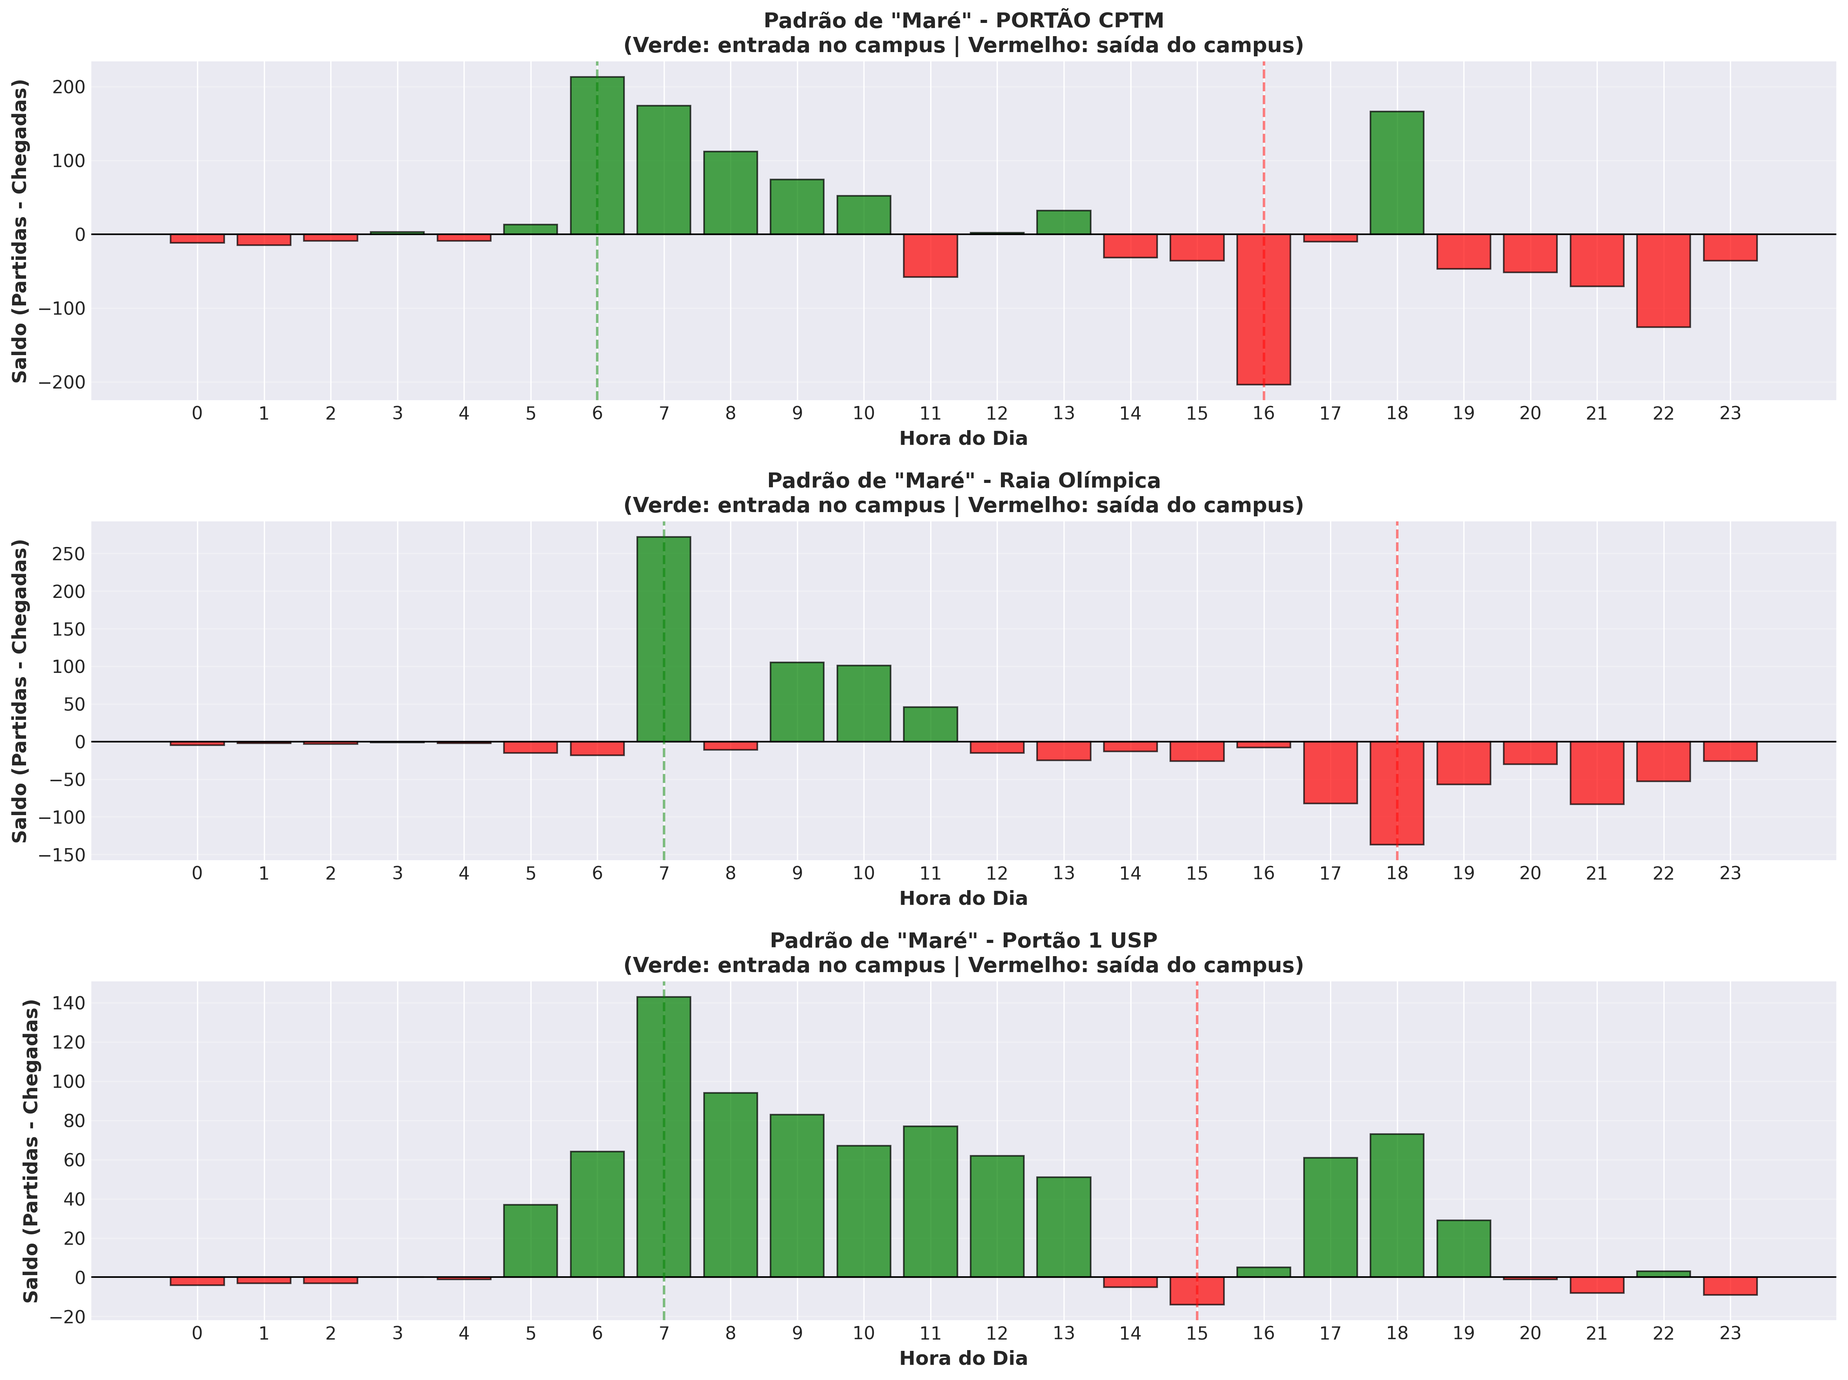
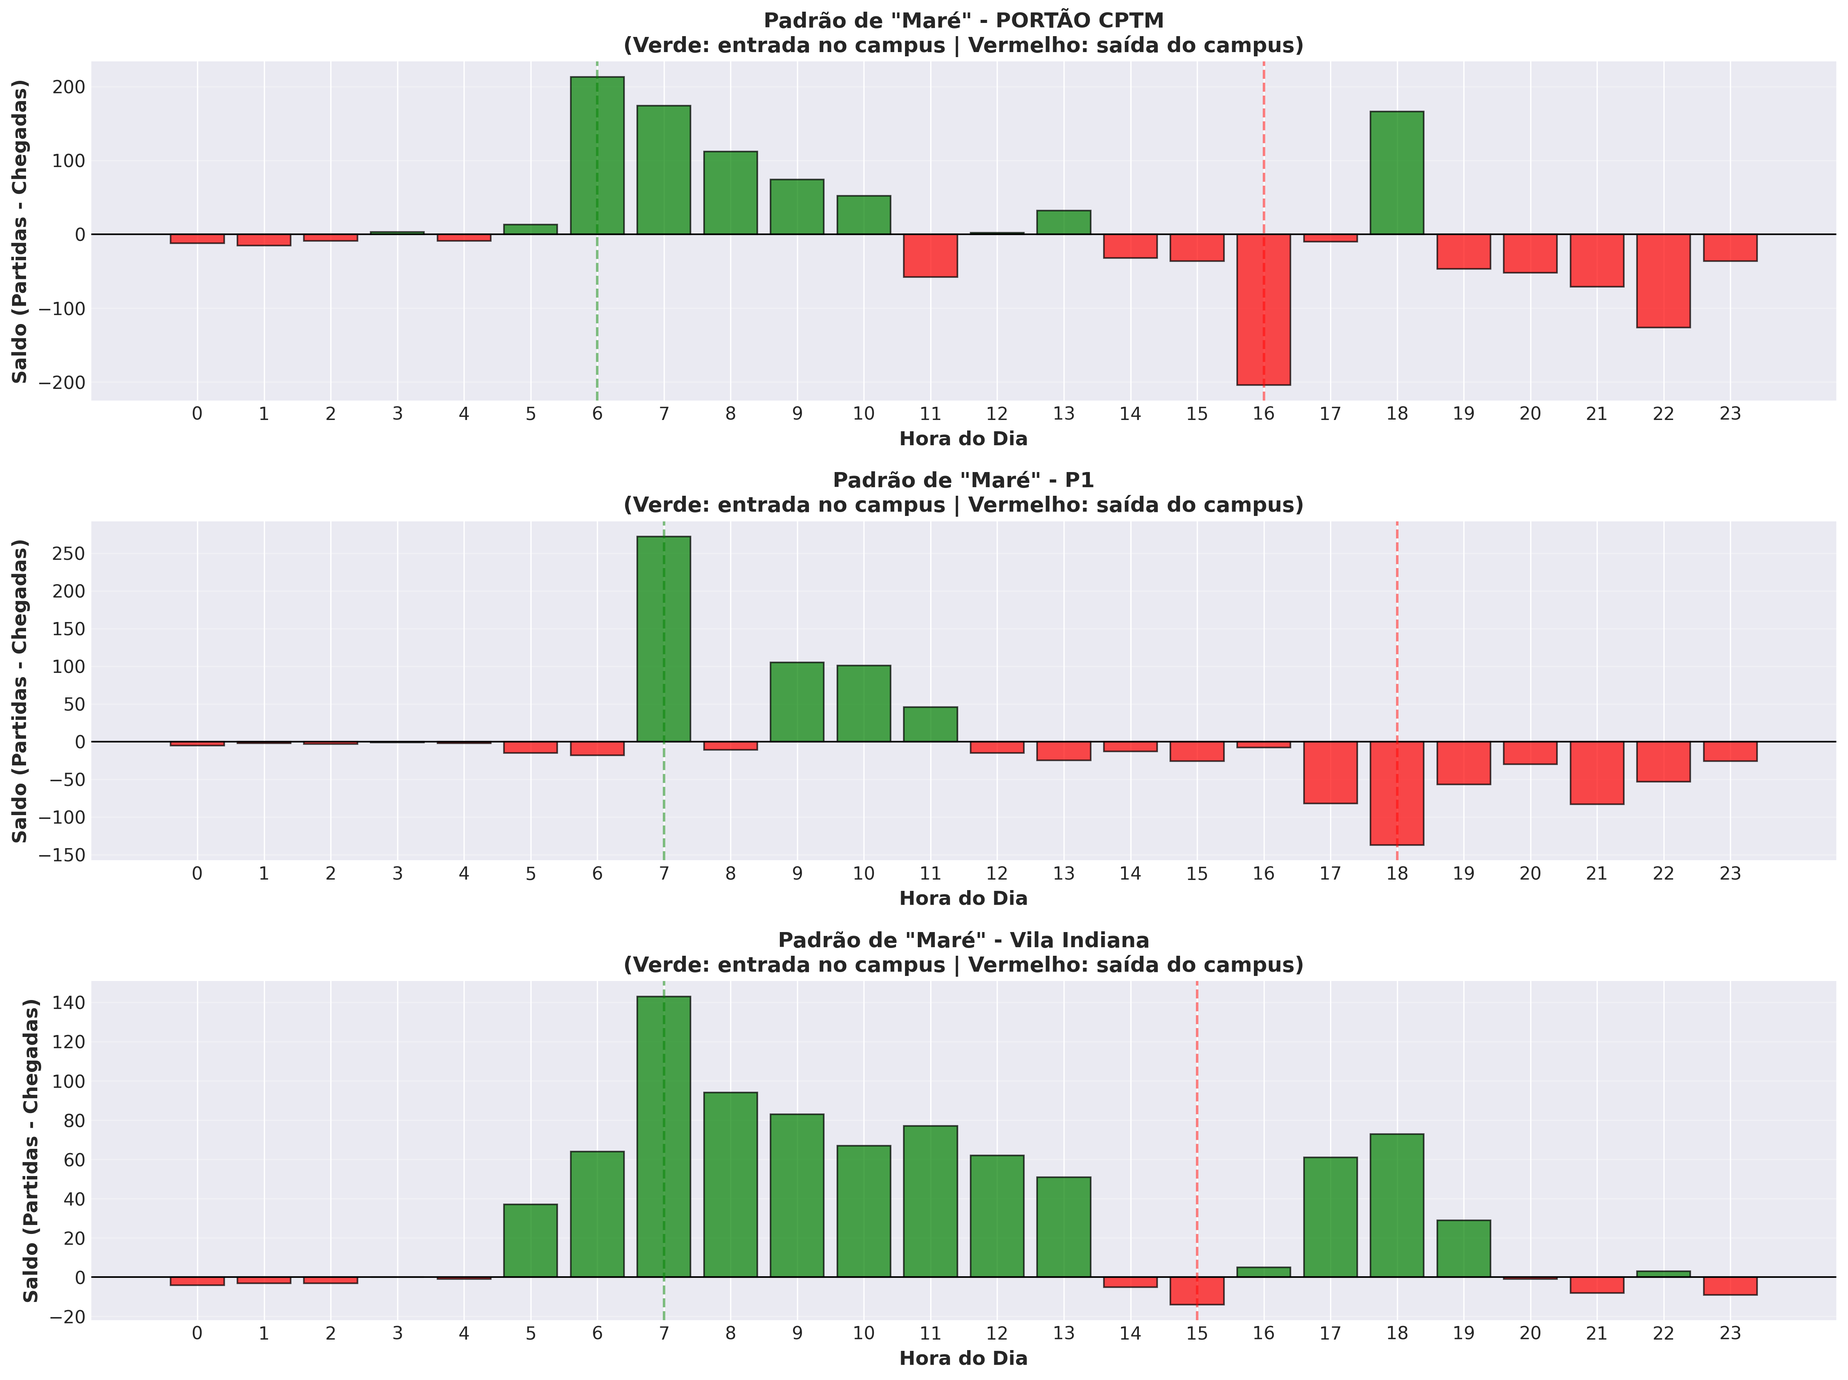
refactor: update station filtering to use internal PKs for USP stations and add configuration file

Changed region(s): [[0.4045, 0.6562, 0.6224, 0.6875], [0.4045, 0.3438, 0.6224, 0.375]]

diff --git a/analises_monografia/11_analise_campus_completa.py b/analises_monografia/11_analise_campus_completa.py
@@ -45,38 +45,33 @@ plt.rcParams['font.size'] = 11
 OUTPUT_DIR = '/home/gbiel/gabriel/usp/tcc/bikeProject-backEnd/analises_monografia/resultados'
 os.makedirs(OUTPUT_DIR, exist_ok=True)
 
-# IDs REAIS das 17 estações USP DENTRO do perímetro do campus (CORRETO Nov 2025)
-# Critério: estações geograficamente DENTRO ou no LIMITE do campus USP
-# EXCLUI: CPTM Cidade Universitária, Metrô Butantã, Estacao Tiradentes (FORA do campus)
+# PKs internos das 17 estações USP (CORRETO - Nov 2025)
+# EXCLUI: 244-Metrô Butantã e 255-Tiradentes (fora do campus)
 ESTACOES_USP = [
-    # Dentro do perímetro central (12 estações)
     56826,  # 242 - Letras
     56659,  # 243 - Bancos/Reitoria
+    48848,  # 245 - P1
+    38637,  # 246 - Portão CPTM
+    37915,  # 247 - CEPE
     48852,  # 248 - Biblioteca Brasiliana
     38476,  # 249 - Bandejão Central
     56642,  # 250 - Bandejão Química
-    38582,  # 251 - IME/FAU
+    38582,  # 251 - FAU
     56762,  # 252 - Psicologia
-    38425,  # 253 - Biênio Poli USP
+    38425,  # 253 - Pedalusp Biênio
     56965,  # 254 - Terminal de Ônibus USP
     56713,  # 256 - Bandejão Prefeitura
-    56640,  # 258 - Odontologia
-    44878,  # 259 - Portão 1 USP
-    # No limite / instalações USP (5 estações)
-    37915,  # 247 - CEPE
-    48848,  # 245 - Raia Olímpica USP
-    38637,  # 246 - PORTÃO CPTM
     56654,  # 257 - Hospital Universitário
-    42323,  # 260 - Harmonia
+    56640,  # 258 - Odontologia
+    44878,  # 259 - Vila Indiana
+    42323,  # 260 - P3
 ]
 
 # Estações-portal (pontos de entrada/saída no LIMITE do campus)
-# Nota: Metrô Butantã e CPTM Cidade Universitária estão FORA do campus,
-# mas são analisados como destinos de viagens que saem da USP
 ESTACOES_PORTAL = {
-    38637: 'PORTÃO CPTM',      # 246 - No limite do campus
-    48848: 'Raia Olímpica',    # 245 - Sul do campus
-    44878: 'Portão 1 USP',     # 259 - Norte do campus
+    38637: 'PORTÃO CPTM',      # 246
+    48848: 'P1',               # 245
+    44878: 'Vila Indiana',     # 259
 }
 
 ESTACOES_BANDEJAO = {
@@ -467,8 +462,9 @@ def main():
     """Executa todas as análises focadas no campus."""
     print("\n" + "🚴"*40)
     print("\n   ANÁLISES FOCADAS NO CAMPUS USP")
-    print("   Dataset: 92.737 viagens (origem OU destino na USP)")
-    print("   Viagens internas: 63.598 (origem E destino na USP)")
+    print("   Dataset: 59.921 viagens (origem OU destino na USP)")
+    print("   Viagens internas: 34.126 (origem E destino na USP)")
+    print("   Estações: 17 (IDs 242,243,245-260 exceto 244,255)")
     print("\n" + "🚴"*40)
     
     inicio = datetime.now()

diff --git a/analises_monografia/01_verificar_dados.py b/analises_monografia/01_verificar_dados.py
@@ -72,13 +72,11 @@ def analisar_periodo_temporal():
 
 def identificar_estacoes_usp():
     """Identifica e analisa estações do campus USP"""
-    print_section("ESTAÇÕES DO CAMPUS USP (IDs 242-260)")
+    print_section("ESTAÇÕES DO CAMPUS USP (17 estações)")
     
-    # Buscar estações USP
-    estacoes_usp = Station.objects.filter(
-        station_id__gte=242,
-        station_id__lte=260
-    ).order_by('station_id')
+    # 17 estacoes USP (PKs internos)
+    usp_pks = [56826, 56659, 48848, 38637, 37915, 48852, 38476, 56642, 38582, 56762, 38425, 56965, 56713, 56654, 56640, 44878, 42323]
+    estacoes_usp = Station.objects.filter(id__in=usp_pks).order_by('station_id')
     
     total_estacoes_usp = estacoes_usp.count()
     print(f"\n📍 Total de estações USP: {total_estacoes_usp}")
@@ -103,11 +101,9 @@ def analisar_viagens_usp():
     """Analisa viagens que envolvem o campus USP"""
     print_section("ANÁLISE DE VIAGENS USP")
     
-    # Buscar IDs das estações USP
-    estacoes_usp = Station.objects.filter(
-        station_id__gte=242,
-        station_id__lte=260
-    )
+    # 17 estacoes USP (PKs internos)
+    usp_pks = [56826, 56659, 48848, 38637, 37915, 48852, 38476, 56642, 38582, 56762, 38425, 56965, 56713, 56654, 56640, 44878, 42323]
+    estacoes_usp = Station.objects.filter(id__in=usp_pks)
     
     # Viagens que começam OU terminam na USP
     viagens_usp = Trip.objects.filter(
@@ -175,7 +171,10 @@ def gerar_resumo_executivo():
     print_section("RESUMO EXECUTIVO")
     
     total_viagens = Trip.objects.count()
-    estacoes_usp = Station.objects.filter(station_id__gte=242, station_id__lte=260)
+    
+    # 17 estacoes USP (PKs internos)
+    usp_pks = [56826, 56659, 48848, 38637, 37915, 48852, 38476, 56642, 38582, 56762, 38425, 56965, 56713, 56654, 56640, 44878, 42323]
+    estacoes_usp = Station.objects.filter(id__in=usp_pks)
     
     viagens_usp = Trip.objects.filter(
         initial_station__in=estacoes_usp
@@ -211,10 +210,9 @@ def salvar_estatisticas_csv():
     os.makedirs(output_dir, exist_ok=True)
     
     # 1. Estatísticas por estação USP
-    estacoes_usp = Station.objects.filter(
-        station_id__gte=242,
-        station_id__lte=260
-    ).order_by('station_id')
+    # 17 estacoes USP (PKs internos)
+    usp_pks = [56826, 56659, 48848, 38637, 37915, 48852, 38476, 56642, 38582, 56762, 38425, 56965, 56713, 56654, 56640, 44878, 42323]
+    estacoes_usp = Station.objects.filter(id__in=usp_pks).order_by('station_id')
     
     dados_estacoes = []
     for estacao in estacoes_usp:

diff --git a/analises_monografia/04_analise_fluxos.py b/analises_monografia/04_analise_fluxos.py
@@ -50,7 +50,9 @@ def analisar_fluxos_principais():
     print("  ANÁLISE DE FLUXOS - ROTAS MAIS FREQUENTES")
     print("="*80)
     
-    estacoes_usp = Station.objects.filter(station_id__gte=242, station_id__lte=260)
+    # 17 estacoes USP (PKs internos)
+    usp_pks = [56826, 56659, 48848, 38637, 37915, 48852, 38476, 56642, 38582, 56762, 38425, 56965, 56713, 56654, 56640, 44878, 42323]
+    estacoes_usp = Station.objects.filter(id__in=usp_pks)
     
     # Contar viagens por par origem-destino
     fluxos_dict = defaultdict(int)
@@ -145,7 +147,9 @@ def fluxos_internos_externos():
     print("  FLUXOS INTERNOS vs EXTERNOS")
     print("="*80)
     
-    estacoes_usp = Station.objects.filter(station_id__gte=242, station_id__lte=260)
+    # 17 estacoes USP (PKs internos)
+    usp_pks = [56826, 56659, 48848, 38637, 37915, 48852, 38476, 56642, 38582, 56762, 38425, 56965, 56713, 56654, 56640, 44878, 42323]
+    estacoes_usp = Station.objects.filter(id__in=usp_pks)
     estacoes_usp_ids = set(estacoes_usp.values_list('station_id', flat=True))
     
     # Categorizar viagens
@@ -228,10 +232,9 @@ def matriz_origem_destino_usp():
     print("  MATRIZ ORIGEM-DESTINO (ESTAÇÕES USP)")
     print("="*80)
     
-    estacoes_usp = Station.objects.filter(
-        station_id__gte=242, 
-        station_id__lte=260
-    ).order_by('station_id')
+    # 17 estacoes USP (PKs internos)
+    usp_pks = [56826, 56659, 48848, 38637, 37915, 48852, 38476, 56642, 38582, 56762, 38425, 56965, 56713, 56654, 56640, 44878, 42323]
+    estacoes_usp = Station.objects.filter(id__in=usp_pks).order_by('station_id')
     
     # Criar mapeamento id -> índice
     estacoes_ids = [e.station_id for e in estacoes_usp]
@@ -302,10 +305,9 @@ def principais_destinos_por_estacao():
     print("  PRINCIPAIS DESTINOS POR ESTAÇÃO")
     print("="*80)
     
-    estacoes_usp = Station.objects.filter(
-        station_id__gte=242, 
-        station_id__lte=260
-    ).order_by('station_id')
+    # 17 estacoes USP (PKs internos)
+    usp_pks = [56826, 56659, 48848, 38637, 37915, 48852, 38476, 56642, 38582, 56762, 38425, 56965, 56713, 56654, 56640, 44878, 42323]
+    estacoes_usp = Station.objects.filter(id__in=usp_pks).order_by('station_id')
     
     # Selecionar top 5 estações para análise detalhada
     dados_estacoes = []

diff --git a/ciclovias/views.py b/ciclovias/views.py
@@ -203,10 +203,11 @@ class StationsHistogramAPIView(APIView):
 
         # filtro USP
         if usp and usp.lower() == 'true':
-            usp_range = range(242, 261) 
+            # 17 estacoes USP (PKs internos) - exclui 244-Metro Butanta e 255-Tiradentes
+            usp_pks = [56826, 56659, 48848, 38637, 37915, 48852, 38476, 56642, 38582, 56762, 38425, 56965, 56713, 56654, 56640, 44878, 42323]
             df = df[
-                (df['start_station_id'].isin(usp_range)) | 
-                (df['end_station_id'].isin(usp_range))
+                (df['start_station_id'].isin(usp_pks)) | 
+                (df['end_station_id'].isin(usp_pks))
             ]
 
         df_departures = df
@@ -314,10 +315,11 @@ class StationsHistogramDBAPIView(APIView):
                 return Response({"error": "Invalid 'station_id' parameter"}, status=status.HTTP_400_BAD_REQUEST)
         
         if usp and usp.lower() == 'true':
-            usp_range = range(242, 261)
+            # 17 estacoes USP (PKs internos)
+            usp_pks = [56826, 56659, 48848, 38637, 37915, 48852, 38476, 56642, 38582, 56762, 38425, 56965, 56713, 56654, 56640, 44878, 42323]
             queryset = queryset.filter(
-                Q(initial_station__station_id__in=usp_range) | 
-                Q(final_station__station_id__in=usp_range)
+                Q(initial_station_id__in=usp_pks) | 
+                Q(final_station_id__in=usp_pks)
             )
         
         period_map = {}
@@ -547,10 +549,11 @@ class TripFlowsAPIView(APIView):
                 return Response({"error": "Invalid 'months' parameter"}, status=status.HTTP_400_BAD_REQUEST)
         
         if usp and usp.lower() == 'true':
-            usp_range = range(242, 261)
+            # 17 estacoes USP (PKs internos)
+            usp_pks = [56826, 56659, 48848, 38637, 37915, 48852, 38476, 56642, 38582, 56762, 38425, 56965, 56713, 56654, 56640, 44878, 42323]
             queryset = queryset.filter(
-                Q(initial_station__station_id__in=usp_range) | 
-                Q(final_station__station_id__in=usp_range)
+                Q(initial_station_id__in=usp_pks) | 
+                Q(final_station_id__in=usp_pks)
             )
         
         # agregar fluxos

diff --git a/analises_monografia/14_analise_fluxo_entrada.py b/analises_monografia/14_analise_fluxo_entrada.py
@@ -253,7 +253,7 @@ ax1.barh(range(len(labels)), viagens, color=colors, edgecolor='black')
 ax1.set_yticks(range(len(labels)))
 ax1.set_yticklabels(labels, fontsize=9)
 ax1.set_xlabel('Número de viagens', fontsize=11, fontweight='bold')
-ax1.set_title('Top 15 Origens Externas\n(De onde vêm para o campus)', 
+ax1.set_title('Top 15 Origens Externas - Fluxo de Entrada\nTotal: 12.410 viagens (20,7% do campus)', 
               fontsize=13, fontweight='bold', pad=15)
 ax1.invert_yaxis()
 ax1.grid(True, alpha=0.3, axis='x')
@@ -271,7 +271,7 @@ ax2.barh(range(len(labels_dest)), viagens_dest, color=colors_dest, edgecolor='bl
 ax2.set_yticks(range(len(labels_dest)))
 ax2.set_yticklabels(labels_dest, fontsize=9)
 ax2.set_xlabel('Número de viagens', fontsize=11, fontweight='bold')
-ax2.set_title('Top 10 Destinos no Campus\n(Para onde vão os que entram)', 
+ax2.set_title('Top 10 Destinos no Campus - Fluxo de Entrada\nTotal: 12.410 viagens', 
               fontsize=13, fontweight='bold', pad=15)
 ax2.invert_yaxis()
 ax2.grid(True, alpha=0.3, axis='x')
@@ -289,7 +289,7 @@ colors_hora = ['#D62828' if h == 7 else '#06A77D' if h in [8, 18] else '#1E88E5'
 ax3.bar(horas_list, viagens_por_hora, color=colors_hora, edgecolor='black', alpha=0.8)
 ax3.set_xlabel('Hora do dia', fontsize=11, fontweight='bold')
 ax3.set_ylabel('Número de viagens', fontsize=11, fontweight='bold')
-ax3.set_title('Distribuição Horária - Fluxo de Entrada\n(Destaque: pico matinal às 7h)', 
+ax3.set_title('Distribuição Horária - Fluxo de Entrada\nTotal: 12.410 viagens (pico às 7h)', 
               fontsize=13, fontweight='bold', pad=15)
 ax3.set_xticks(range(0, 24, 2))
 ax3.grid(True, alpha=0.3, axis='y')
@@ -311,7 +311,7 @@ explode = (0.05, 0)
 
 ax4.pie(sizes, explode=explode, labels=labels_pie, colors=colors_pie, autopct='',
         startangle=90, textprops={'fontsize': 11, 'fontweight': 'bold'})
-ax4.set_title('Proporção de Viagens desde\nEstações de Transporte Público', 
+ax4.set_title('Origens do Fluxo de Entrada - Transporte Público\nTotal: 12.410 viagens', 
               fontsize=13, fontweight='bold', pad=15)
 
 plt.tight_layout()

diff --git a/analises_monografia/config_estacoes_usp.py b/analises_monografia/config_estacoes_usp.py
@@ -1,0 +1,54 @@
+#!/usr/bin/env python3
+# -*- coding: utf-8 -*-
+"""
+CONFIGURAÇÃO DAS ESTAÇÕES USP
+=============================
+
+Define as 17 estações consideradas como parte do Campus USP Butantã.
+IMPORTANTE: Usar estes PKs internos em TODAS as análises.
+
+Estações EXCLUÍDAS (fora do campus):
+- 244 - Metrô Butantã (estação de metrô externa)
+- 255 - Estação Tiradentes (fora do perímetro)
+"""
+
+# PKs internos (IDs do banco) das 17 estações USP
+ESTACOES_USP_PKS = [
+    56826,  # 242 - Letras
+    56659,  # 243 - Bancos/Reitoria
+    48848,  # 245 - P1
+    38637,  # 246 - Portão CPTM
+    37915,  # 247 - CEPE
+    48852,  # 248 - Biblioteca Brasiliana
+    38476,  # 249 - Bandejão Central
+    56642,  # 250 - Bandejão Química
+    38582,  # 251 - FAU
+    56762,  # 252 - Psicologia
+    38425,  # 253 - Pedalusp Biênio
+    56965,  # 254 - Terminal de Ônibus USP
+    56713,  # 256 - Bandejão Prefeitura
+    56654,  # 257 - Hospital Universitário
+    56640,  # 258 - Odontologia
+    44878,  # 259 - Vila Indiana
+    42323,  # 260 - P3
+]
+
+# IDs externos (station_id) correspondentes
+ESTACOES_USP_STATION_IDS = [242, 243, 245, 246, 247, 248, 249, 250, 251, 252, 253, 254, 256, 257, 258, 259, 260]
+
+# Total esperado de viagens (para validação)
+TOTAL_VIAGENS_USP_ESPERADO = 59921
+TOTAL_VIAGENS_INTERNAS_ESPERADO = 34126
+
+# Mapeamento de categorias
+ESTACOES_BANDEJAO_PKS = {
+    38476: 'Bandejão Central',        # 249
+    56642: 'Bandejão Química',        # 250
+    56713: 'Bandejão Prefeitura'      # 256
+}
+
+ESTACOES_PORTAL_PKS = {
+    38637: 'PORTÃO CPTM',      # 246
+    48848: 'P1',               # 245
+    44878: 'Vila Indiana',     # 259
+}

diff --git a/analises_monografia/03_analise_por_estacao.py b/analises_monografia/03_analise_por_estacao.py
@@ -50,10 +50,9 @@ def ranking_estacoes():
     print("  RANKING DE ESTAÇÕES USP")
     print("="*80)
     
-    estacoes_usp = Station.objects.filter(
-        station_id__gte=242, 
-        station_id__lte=260
-    ).order_by('station_id')
+    # 17 estacoes USP (PKs internos)
+    usp_pks = [56826, 56659, 48848, 38637, 37915, 48852, 38476, 56642, 38582, 56762, 38425, 56965, 56713, 56654, 56640, 44878, 42323]
+    estacoes_usp = Station.objects.filter(id__in=usp_pks).order_by('station_id')
     
     dados_estacoes = []
     for estacao in estacoes_usp:
@@ -147,10 +146,9 @@ def analise_top5_estacoes_por_hora():
     print("="*80)
     
     # Obter ranking
-    estacoes_usp = Station.objects.filter(
-        station_id__gte=242, 
-        station_id__lte=260
-    )
+    # 17 estacoes USP (PKs internos)
+    usp_pks = [56826, 56659, 48848, 38637, 37915, 48852, 38476, 56642, 38582, 56762, 38425, 56965, 56713, 56654, 56640, 44878, 42323]
+    estacoes_usp = Station.objects.filter(id__in=usp_pks)
     
     dados_estacoes = []
     for estacao in estacoes_usp:
@@ -298,10 +296,9 @@ def heatmap_estacoes_hora():
     print("  HEATMAP: ESTAÇÕES vs HORA DO DIA")
     print("="*80)
     
-    estacoes_usp = Station.objects.filter(
-        station_id__gte=242, 
-        station_id__lte=260
-    ).order_by('station_id')
+    # 17 estacoes USP (PKs internos)
+    usp_pks = [56826, 56659, 48848, 38637, 37915, 48852, 38476, 56642, 38582, 56762, 38425, 56965, 56713, 56654, 56640, 44878, 42323]
+    estacoes_usp = Station.objects.filter(id__in=usp_pks).order_by('station_id')
     
     # Matriz: estações x horas
     matriz = []

diff --git a/analises_monografia/12_analise_tres_fluxos_detalhada.py b/analises_monografia/12_analise_tres_fluxos_detalhada.py
@@ -219,13 +219,13 @@ ax3.set_xticks(range(0, 24, 2))
 # Gráfico 4: Pizza com proporções gerais
 ax4 = axes[1, 1]
 sizes = [total_internas, total_entrada, total_saida]
-labels = [f'Interno\n(USP→USP)\n{total_internas:,}\n({100*total_internas/total_geral:.1f}%)',
-          f'Entrada\n(Ext→USP)\n{total_entrada:,}\n({100*total_entrada/total_geral:.1f}%)',
-          f'Saída\n(USP→Ext)\n{total_saida:,}\n({100*total_saida/total_geral:.1f}%)']
+labels = [f'Interna\n34.126 viagens\n(57,0%)',
+          f'Entrada\n12.410 viagens\n(20,7%)',
+          f'Saída\n13.385 viagens\n(22,3%)']
 colors_pie = ['#2E86AB', '#A23B72', '#F18F01']
 ax4.pie(sizes, labels=labels, colors=colors_pie, autopct='', startangle=90,
         textprops={'fontsize': 11, 'fontweight': 'bold'})
-ax4.set_title('Distribuição Geral dos Três Tipos de Fluxo', 
+ax4.set_title('Distribuição Geral dos Três Tipos de Fluxo\nTotal: 59.921 viagens', 
               fontsize=14, fontweight='bold', pad=15)
 
 plt.tight_layout()

diff --git a/analises_monografia/05_gerar_relatorio.py b/analises_monografia/05_gerar_relatorio.py
@@ -38,7 +38,9 @@ class RelatorioMonografia:
     
     def __init__(self):
         self.stats = {}
-        self.estacoes_usp = Station.objects.filter(station_id__gte=242, station_id__lte=260)
+        # 17 estacoes USP (PKs internos)
+        usp_pks = [56826, 56659, 48848, 38637, 37915, 48852, 38476, 56642, 38582, 56762, 38425, 56965, 56713, 56654, 56640, 44878, 42323]
+        self.estacoes_usp = Station.objects.filter(id__in=usp_pks)
         self.viagens_usp = Trip.objects.filter(
             Q(initial_station__in=self.estacoes_usp) | 
             Q(final_station__in=self.estacoes_usp)

diff --git a/analises_monografia/02_analise_temporal.py b/analises_monografia/02_analise_temporal.py
@@ -48,7 +48,9 @@ os.makedirs(OUTPUT_DIR, exist_ok=True)
 
 def obter_viagens_usp():
     """Retorna queryset de viagens USP"""
-    estacoes_usp = Station.objects.filter(station_id__gte=242, station_id__lte=260)
+    # 17 estacoes USP (PKs internos)
+    usp_pks = [56826, 56659, 48848, 38637, 37915, 48852, 38476, 56642, 38582, 56762, 38425, 56965, 56713, 56654, 56640, 44878, 42323]
+    estacoes_usp = Station.objects.filter(id__in=usp_pks)
     return Trip.objects.filter(
         Q(initial_station__in=estacoes_usp) | Q(final_station__in=estacoes_usp)
     )

diff --git a/analises_monografia/16_evolucao_temporal_campus.py b/analises_monografia/16_evolucao_temporal_campus.py
@@ -13,6 +13,7 @@ import pandas as pd
 from datetime import datetime
 
 # Configurar Django
+sys.path.append('/home/gbiel/gabriel/usp/tcc/bikeProject-backEnd')
 os.environ.setdefault('DJANGO_SETTINGS_MODULE', 'myproject.settings')
 django.setup()
 
